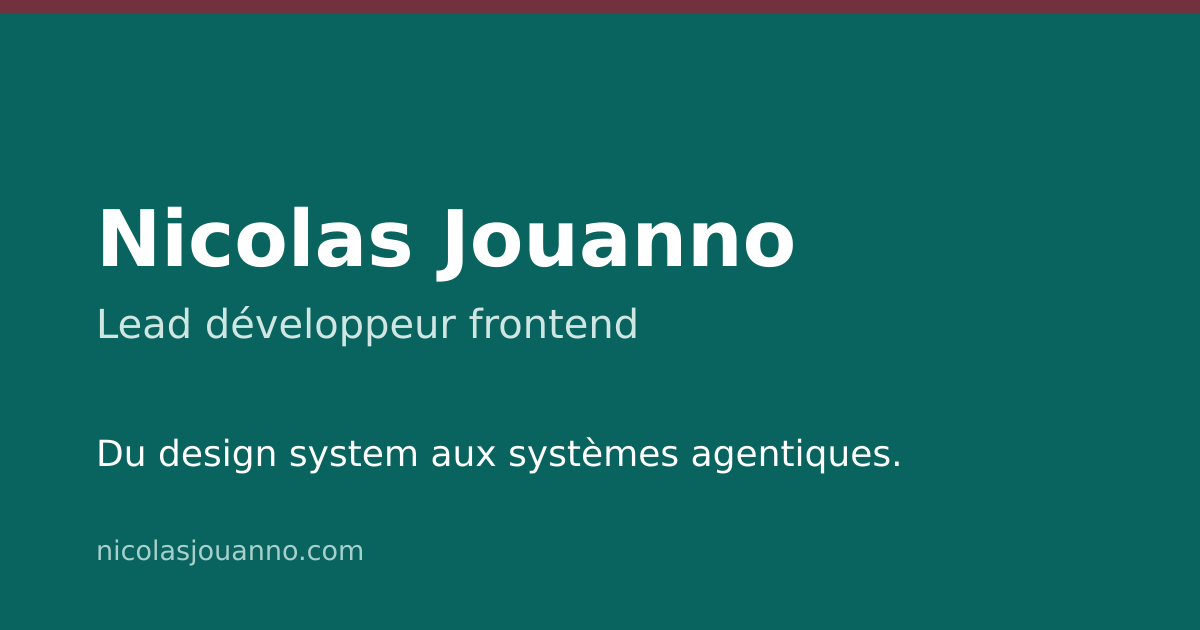
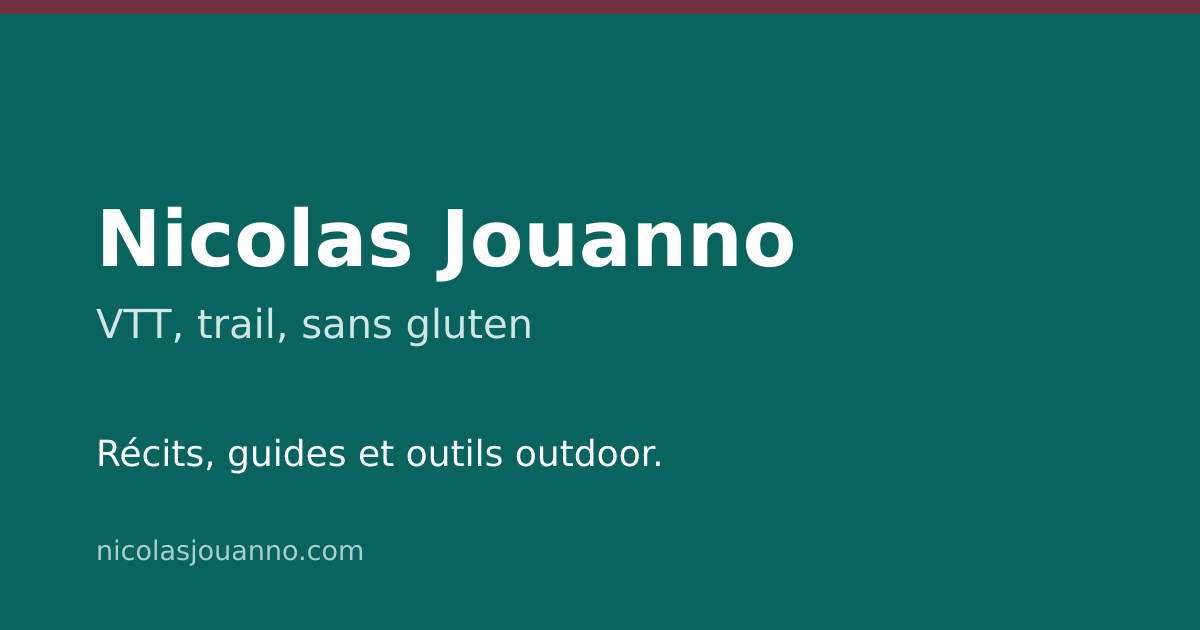
fix: clarify site positioning signals

Changed region(s): [[0.0925, 0.6937, 0.74, 0.754], [0.0617, 0.4825, 0.555, 0.5429]]

diff --git a/www/_layouts/default.html b/www/_layouts/default.html
@@ -267,6 +267,7 @@
           "alternateName": "Nicolas Jouanno",
           "url": "{{ site.url }}",
           "email": "{{ site.author.email }}",
+          {% if page.url contains "/me/work/" or page.positioning == "work" %}
           "jobTitle": "Lead développeur frontend",
           "worksFor": {
             "@type": "Organization",
@@ -279,6 +280,23 @@
             "Accessibilité RGAA",
             "Systèmes agentiques"
           ],
+          {% else %}
+          "jobTitle": "Auteur outdoor et ancien cycliste professionnel",
+          "knowsAbout": [
+            {% assign structured_topic_count = 0 %}
+            {% for verticale in site.data.taxonomie.verticales %}
+              {% if verticale.status == "active" %}
+                {% for topic in verticale.keywords %}
+                  {% if structured_topic_count > 0 %},{% endif %}
+                  {{ topic | jsonify }}
+                  {% assign structured_topic_count = structured_topic_count | plus: 1 %}
+                {% endfor %}
+              {% endif %}
+            {% endfor %}
+            {% if structured_topic_count > 0 %},{% endif %}
+            "Slow web"
+          ],
+          {% endif %}
           "address": {
             "@type": "PostalAddress",
             "addressLocality": "{{ site.author.location }}",

diff --git a/www/feezify.html b/www/feezify.html
@@ -206,7 +206,7 @@ permalink: /feezify.html
       <a href="https://github.com/jn-prod/feezify" class="c-button c-button--dark-outline" rel="noopener" target="_blank">Voir le code sur GitHub →</a>
       <a href="https://www.tipeee.com/byNicolasJD" class="c-button c-button--dark-outline" rel="noopener" target="_blank">Soutenir sur Tipeee →</a>
     </div>
-    <p class="c-meta u-spacing--block-start-medium">Construit par Nicolas Jouanno — <a href="/me/work/">développeur frontend</a>, ancien coureur cycliste pro. J'écris et je construis lentement, à vitesse humaine.</p>
+    <p class="c-meta u-spacing--block-start-medium">Construit par Nicolas Jouanno — ancien coureur cycliste pro. J'écris et je construis lentement, à vitesse humaine.</p>
   </div>
 </section>
 
@@ -277,8 +277,8 @@ permalink: /feezify.html
       "author": {
         "@type": "Person",
         "name": "Nicolas Jouanno",
-        "jobTitle": "Developpeur frontend",
-        "url": "https://www.nicolasjouanno.com/me/work/"
+        "jobTitle": "Auteur outdoor et ancien cycliste professionnel",
+        "url": "https://www.nicolasjouanno.com/me/"
       }
     },
     {

diff --git a/www/scripts/check-positioning.rb b/www/scripts/check-positioning.rb
@@ -1,0 +1,128 @@
+#!/usr/bin/env ruby
+# frozen_string_literal: true
+
+require "pathname"
+require "set"
+require "yaml"
+
+ROOT = Pathname.new(__dir__).join("..").expand_path
+TAXONOMIE_PATH = ROOT.join("_data", "taxonomie.yml")
+POSTS_DIR = ROOT.join("_posts")
+
+def fail_with(errors)
+  return if errors.empty?
+
+  warn "Positioning check failed:"
+  errors.each { |error| warn "- #{error}" }
+  exit 1
+end
+
+def frontmatter_for(path)
+  content = path.read
+  match = content.match(/\A---\s*\n(.*?)\n---\s*\n/m)
+  return {} unless match
+
+  YAML.safe_load(match[1], permitted_classes: [Date, Time], aliases: true) || {}
+rescue Psych::SyntaxError => e
+  { "__error" => e.message }
+end
+
+def page_exists_for?(permalink)
+  normalized = permalink.to_s
+  candidates =
+    if normalized.end_with?("/")
+      [
+        ROOT.join(normalized.delete_prefix("/"), "index.md"),
+        ROOT.join(normalized.delete_prefix("/"), "index.html")
+      ]
+    else
+      stem = normalized.delete_prefix("/").sub(/\.html\z/, "")
+      [
+        ROOT.join("#{stem}.md"),
+        ROOT.join("#{stem}.html")
+      ]
+    end
+
+  candidates.any?(&:file?)
+end
+
+taxonomie = YAML.safe_load(TAXONOMIE_PATH.read, aliases: true)
+verticales = taxonomie.fetch("verticales")
+formats = taxonomie.fetch("formats")
+errors = []
+
+format_slugs = formats.map { |format| format.fetch("slug") }
+verticale_slugs = verticales.map { |verticale| verticale.fetch("slug") }
+
+duplicate_verticales = verticale_slugs.tally.select { |_slug, count| count > 1 }.keys
+duplicate_verticales.each { |slug| errors << "verticale duplicate slug: #{slug}" }
+
+verticales.each do |verticale|
+  slug = verticale["slug"]
+  label = verticale["label"]
+  status = verticale["status"] || (verticale["planned"] ? "planned" : "active")
+
+  %w[slug label permalink description positioning keywords].each do |field|
+    value = verticale[field]
+    errors << "#{slug || label || "(unknown)"} missing #{field}" if value.nil? || value == "" || value == []
+  end
+
+  unless %w[active planned archived].include?(status)
+    errors << "#{slug} has invalid status #{status.inspect}; expected active, planned or archived"
+  end
+
+  if status == "active"
+    errors << "#{slug} active verticale must set visible_footer: true" unless verticale["visible_footer"] == true
+    errors << "#{slug} active verticale must set include_home: true or false" unless [true, false].include?(verticale["include_home"])
+    errors << "#{slug} active verticale must set include_llms: true or false" unless [true, false].include?(verticale["include_llms"])
+  end
+
+  if verticale["include_home"] == true && (verticale["home_description"].nil? || verticale["home_description"].empty?)
+    errors << "#{slug} include_home requires home_description"
+  end
+
+  if verticale["include_llms"] == true && (verticale["llms_description"].nil? || verticale["llms_description"].empty?)
+    errors << "#{slug} include_llms requires llms_description"
+  end
+
+  if verticale["visible_footer"] == true && !page_exists_for?(verticale["permalink"])
+    errors << "#{slug} visible_footer points to missing page #{verticale["permalink"]}"
+  end
+end
+
+post_counts = Hash.new(0)
+
+POSTS_DIR.glob("*.md").each do |post_path|
+  frontmatter = frontmatter_for(post_path)
+  if frontmatter["__error"]
+    errors << "#{post_path.relative_path_from(ROOT)} invalid front matter: #{frontmatter["__error"]}"
+    next
+  end
+
+  format = frontmatter["format"]
+  verticale = frontmatter["verticale"]
+
+  errors << "#{post_path.relative_path_from(ROOT)} unknown format #{format.inspect}" if format && !format_slugs.include?(format)
+  errors << "#{post_path.relative_path_from(ROOT)} missing verticale" if verticale.nil? || verticale.empty?
+
+  if verticale && !verticale_slugs.include?(verticale)
+    errors << "#{post_path.relative_path_from(ROOT)} unknown verticale #{verticale.inspect}"
+  elsif verticale
+    post_counts[verticale] += 1 unless frontmatter["archive"] == true
+  end
+end
+
+verticales.each do |verticale|
+  next unless verticale["status"] == "active"
+  next unless verticale["visible_footer"] == true
+
+  minimum_posts = verticale["minimum_posts"] || 2
+  count = post_counts[verticale["slug"]]
+  if count < minimum_posts
+    errors << "#{verticale["slug"]} visible active verticale has #{count} posts; expected at least #{minimum_posts}"
+  end
+end
+
+fail_with(errors)
+
+puts "Positioning check OK: #{verticales.count { |v| v["status"] == "active" }} active verticales, #{post_counts.values.sum} classified posts."

diff --git a/www/index.md b/www/index.md
@@ -14,7 +14,7 @@ signature: true
 
 <p class="u-text--center"><img class="c-avatar c-avatar--xlarge" src="/images/nicolas-jouanno.webp" alt="Portrait de Nicolas Jouanno" width="256" height="256" /></p>
 
-Avant l'écran, il y a eu le vélo : [cycliste professionnel]({{ site.url }}/me/results.html) chez Bretagne Schuller, cinq championnats de France, puis une blessure qui m'a mis hors course. J'ai quitté le bitume pour les sentiers, en famille — VTT, trail, l'Europe en van. Le jour, je suis [lead développeur frontend]({{ site.url }}/me/work/) ; le soir, je construis des outils. Le tout depuis Pontivy, en Bretagne.
+Avant l'écran, il y a eu le vélo : [cycliste professionnel]({{ site.url }}/me/results.html) chez Bretagne Schuller, cinq championnats de France, puis une blessure qui m'a mis hors course. J'ai quitté le bitume pour les sentiers, en famille — VTT, trail, l'Europe en van. Ce site part de là : du sport vécu, des sorties qui laissent une trace, et des outils construits parce qu'ils me servent vraiment. Le tout depuis Pontivy, en Bretagne.
 
 <p><a href="/me/" class="c-button c-button--dark-outline">Mon parcours →</a></p>
 
@@ -30,10 +30,13 @@ Avant l'écran, il y a eu le vélo : [cycliste professionnel]({{ site.url }}/me/
 
 <!-- TODO copywriter (D-2026-06-11-001) — reprend l'axe VERTICALE du footer -->
 
-- **[VTT](/vtt/)** — la verticale la plus fournie : réglages, matériel, entraînement, sorties.
-- **[Trail](/trail/)** — arrivé tard à la course à pied, et c'est ce qui m'intéresse : recommencer débutant.
-- **[Nutrition](/nutrition/)** — le ravitaillement d'effort d'un côté, le sans-gluten du quotidien de l'autre. Parent d'un enfant cœliaque, je le vis des deux côtés.
-- **[Projets](/projets/)** — ce que je construis, ce que ça m'apprend, ce que ça devient.
+<ul>
+  {% for verticale in site.data.taxonomie.verticales %}
+    {% if verticale.include_home and verticale.status == "active" %}
+      <li><strong><a href="{{ verticale.permalink }}">{{ verticale.label }}</a></strong> — {{ verticale.home_description }}</li>
+    {% endif %}
+  {% endfor %}
+</ul>
 
 ## 🚵 vtt.bzh — le calendrier des randos VTT en Bretagne
 
@@ -50,14 +53,20 @@ Pas de plateforme entre nous. Tout part d'ici, sur mon propre site, et y reste.
 <aside id="follow" class="c-card c-card--flat c-card--medium">
   <h2>📬 Un email quand je publie</h2>
   <div class="c-card c-card--neutral c-card--small">
-    <p>VTT, trail, sans gluten et les projets que je bricole. Aucun rythme imposé : j'écris quand j'ai quelque chose à dire, vous lisez quand vous voulez.</p>
+    <p>{% assign home_verticales = site.data.taxonomie.verticales | where: "include_home", true | where: "status", "active" %}{% for verticale in home_verticales %}{% if forloop.first %}{{ verticale.label }}{% elsif forloop.last %} et {{ verticale.label | downcase }}{% else %}, {{ verticale.label | downcase }}{% endif %}{% endfor %}. Aucun rythme imposé : j'écris quand j'ai quelque chose à dire, vous lisez quand vous voulez.</p>
     {% include /plugins/newsletter.html %}
   </div>
   <p>Tous les envois sont publics → <a href="https://mails.nicolasjouanno.com">voir les archives</a></p>
   <h3>📝 Derniers articles</h3>
   <ul class="u-list">
-    {% for post in site.posts limit:3 %}
-    <li><a href="{{ post.url }}">{{ post.title }}</a> ({{ post.date | date: "%Y" }})</li>
+    {% assign public_posts = site.posts | where_exp: "post", "post.archive != true" %}
+    {% assign shown_count = 0 %}
+    {% for post in public_posts %}
+      {% unless post.categories contains "Work" %}
+        <li><a href="{{ post.url }}">{{ post.title }}</a> ({{ post.date | date: "%Y" }})</li>
+        {% assign shown_count = shown_count | plus: 1 %}
+        {% if shown_count == 3 %}{% break %}{% endif %}
+      {% endunless %}
     {% endfor %}
   </ul>
   <p><a href="/posts.html" class="c-button c-button--dark-outline">Lire tous les articles →</a></p>

diff --git a/www/_events/2025-08-26-meetup-accessibilite.md b/www/_events/2025-08-26-meetup-accessibilite.md
@@ -5,6 +5,7 @@ end: 2025-08-26 19:00:00
 location: Vannes, France
 description: "Preview de la conférence sur l’accessibilité et les web components qui sera donnée a Paris-Web."
 link: https://www.meetup.com/fr-FR/theremotetribe/events/309015304/
+positioning: work
 ---
 
 Je co-présente avec [Simon Duhem](https://www.linkedin.com/in/simonduhem?utm_source=share&utm_campaign=share_via&utm_content=profile&utm_medium=ios_app) un sujet sur les "WebComponents et l’accessibilité", en avance de la conf Paris Web.

diff --git a/www/_events/paris-web-2025.md b/www/_events/paris-web-2025.md
@@ -5,6 +5,7 @@ end: 2025-09-26 18:00:00
 location: Paris, France
 description: "Conférence sur l’accessibilité et les web components."
 link: https://www.paris-web.fr/2025/conference/les-web-components-et-laccessibilite
+positioning: work
 ---
 
 Cette année, je co-présente avec [Simon Duhem](https://www.linkedin.com/in/simonduhem?utm_source=share&utm_campaign=share_via&utm_content=profile&utm_medium=ios_app) un sujet sur les "WebComponents et l’accessibilité" à Paris Web.

diff --git a/www/agenda.md b/www/agenda.md
@@ -3,6 +3,7 @@ layout: page
 title: Agenda
 description: "Mes prochaines conférences, meetups et événements web. Calendrier de mes prises de parole sur l'accessibilité, les Web Components et le design system."
 permalink: /agenda/
+positioning: work
 ---
 
 # 📅 Mon agenda
